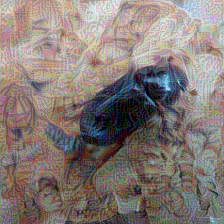
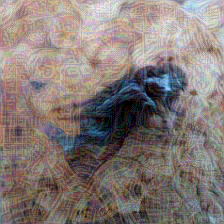
Experiment

diff --git a/image_attacker.py b/image_attacker.py
@@ -32,21 +32,21 @@ def ssa_cw_count_to_index(count, num_models=len(models), ssa_N=20):
 ssa_cw_loss = EnsembleFeatureLoss(models, ssa_cw_count_to_index, feature_loss=torch.nn.MSELoss())
 
 
-# attacker = SSA_CommonWeakness(
+attacker = SSA_CommonWeakness(
+    models,
+    epsilon=16 / 255,
+    step_size=1 / 255,
+    total_step=10,
+    criterion=ssa_cw_loss,
+)
+
+# attacker = MI_CommonWeakness(
 #     models,
 #     epsilon=16 / 255,
 #     step_size=1 / 255,
 #     total_step=500,
 #     criterion=ssa_cw_loss,
 # )
-
-attacker = MI_CommonWeakness(
-    models,
-    epsilon=16 / 255,
-    step_size=1 / 255,
-    total_step=500,
-    criterion=ssa_cw_loss,
-)
 
 dir = "./perturbed_images/"
 if not os.path.exists(dir):
